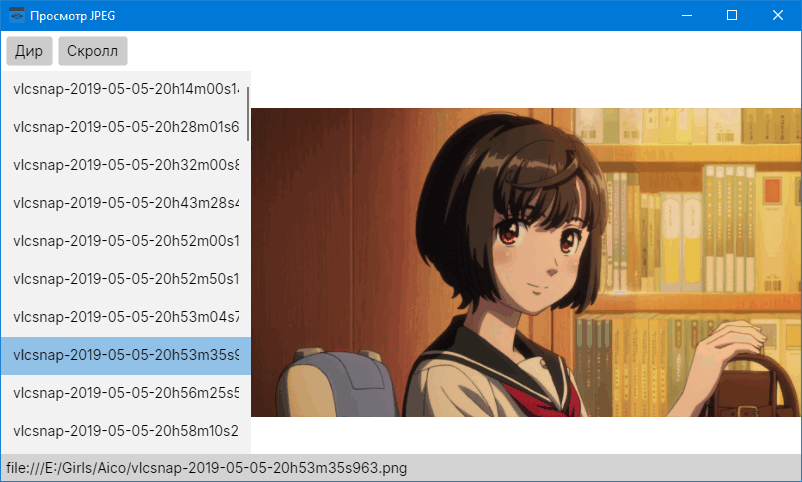
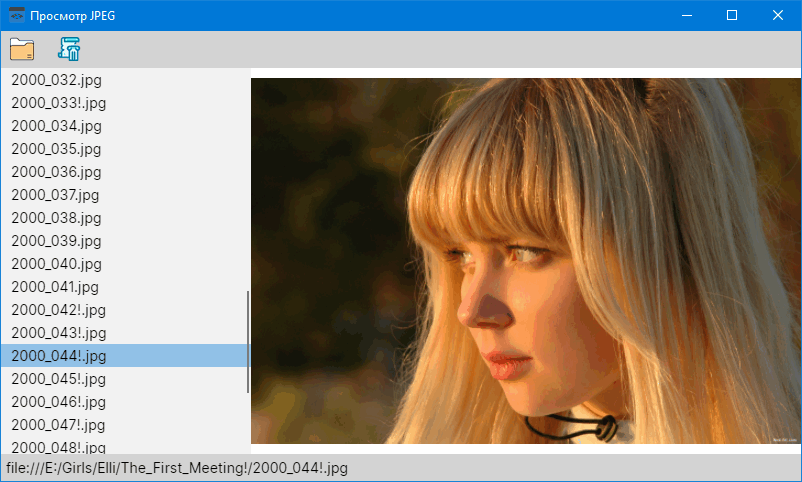
Working on Peeper

diff --git a/Source/Apps/Peeper/Source/MainWindow.cs b/Source/Apps/Peeper/Source/MainWindow.cs
@@ -33,6 +33,7 @@ using Avalonia.Layout;
 using Avalonia.Media;
 using Avalonia.Platform.Storage;
 using Avalonia.ReactiveUI;
+using Avalonia.Styling;
 using Avalonia.Threading;
 
 using ReactiveUI;
@@ -72,13 +73,14 @@ internal sealed class MainWindow
 
         var toolBar = new StackPanel
             {
-                Margin = new Thickness (5),
+                Background = Brushes.LightGray,
                 Orientation = Orientation.Horizontal,
                 Spacing = 5,
                 Children =
                 {
                     CreateButton ("folder.png", _ChangeDirectory),
-                    CreateButton ("scroll.png", _ChangeScroll)
+                    CreateButton ("scroll.png", _ChangeScroll),
+                    CreateButton ("slideshow.png", _SlideshowControl)
                 }
             }
             .DockTop();
@@ -100,9 +102,11 @@ internal sealed class MainWindow
                 [!ItemsControl.ItemsProperty] = new Binding (nameof (_model.Files)),
                 [!SelectingItemsControl.SelectedItemProperty] = new Binding (nameof (_model.SelectedFile)),
                 ItemTemplate = new FuncDataTemplate<IStorageItem> ((data, _) =>
-                    new TextBlock{ Text = data.Name })
+                    new TextBlock { Text = data.Name }),
+                Styles = { AvaloniaUtility.CreateStyle<ListBoxItem> (PaddingProperty, new Thickness (10, 3)) }
             }
             .DockLeft();
+
         _imageBox = new Image
         {
             IsTabStop = true,
@@ -160,6 +164,24 @@ internal sealed class MainWindow
     private bool _scrollEnabled;
     private readonly Image _imageBox;
     private readonly ScrollViewer _scrollViewer;
+    private IDisposable? _slideshowTimer;
+
+    private void _SlideshowControl()
+    {
+        if (_slideshowTimer is null)
+        {
+            _slideshowTimer = DispatcherTimer.Run
+                (
+                    () => { _MoveToNextPicture(); return true; },
+                    TimeSpan.FromSeconds (3)
+                );
+        }
+        else
+        {
+            _slideshowTimer.Dispose();
+            _slideshowTimer = null;
+        }
+    }
 
     private async void _ChangeDirectory()
     {
@@ -238,6 +260,11 @@ internal sealed class MainWindow
                 eventArgs.Handled = true;
                 _ChangeScroll();
                 break;
+
+            case Key.F4:
+                eventArgs.Handled = true;
+                _SlideshowControl();
+                break;
         }
     }
 
@@ -265,5 +292,4 @@ internal sealed class MainWindow
     }
 
     #endregion
-
 }

diff --git a/Source/Libs/AM.Avalonia/Source/AvaloniaUtility.cs b/Source/Libs/AM.Avalonia/Source/AvaloniaUtility.cs
@@ -323,6 +323,27 @@ public static class AvaloniaUtility
     }
 
     /// <summary>
+    /// Создание стиля с сеттером.
+    /// </summary>
+    public static Style CreateStyle<TControl>
+        (
+            AvaloniaProperty property,
+            object value
+        )
+        where TControl: Control
+    {
+        Sure.NotNull (property);
+
+        return new Style (x => x.OfType<TControl>())
+        {
+            Setters =
+            {
+                new Setter (property, value)
+            }
+        };
+    }
+
+    /// <summary>
     /// Размещение контрола внизу в <see cref="DockPanel"/>>.
     /// </summary>
     public static T DockBottom<T>
